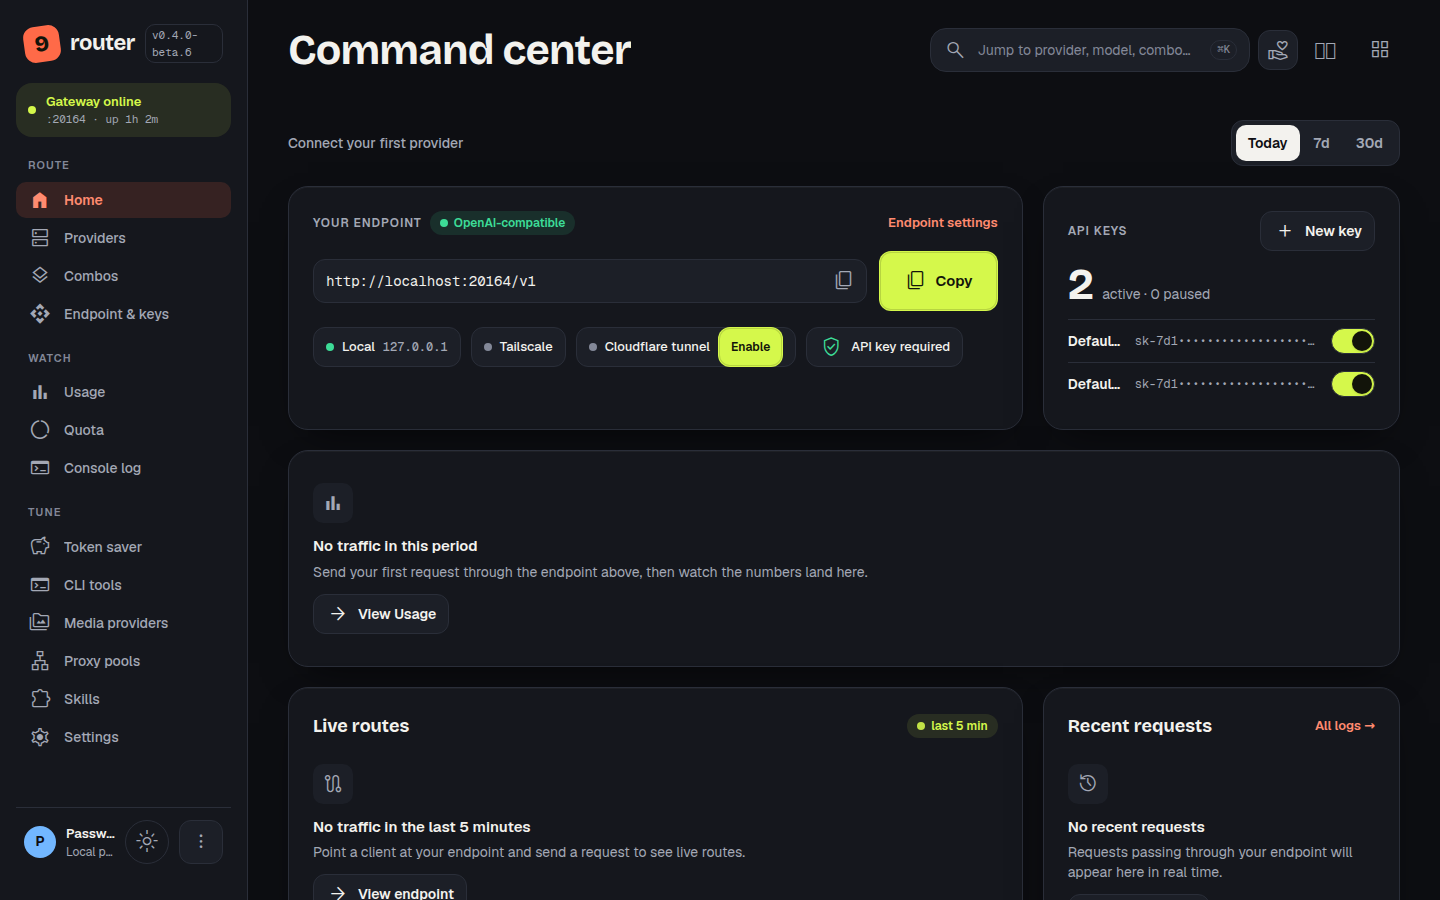
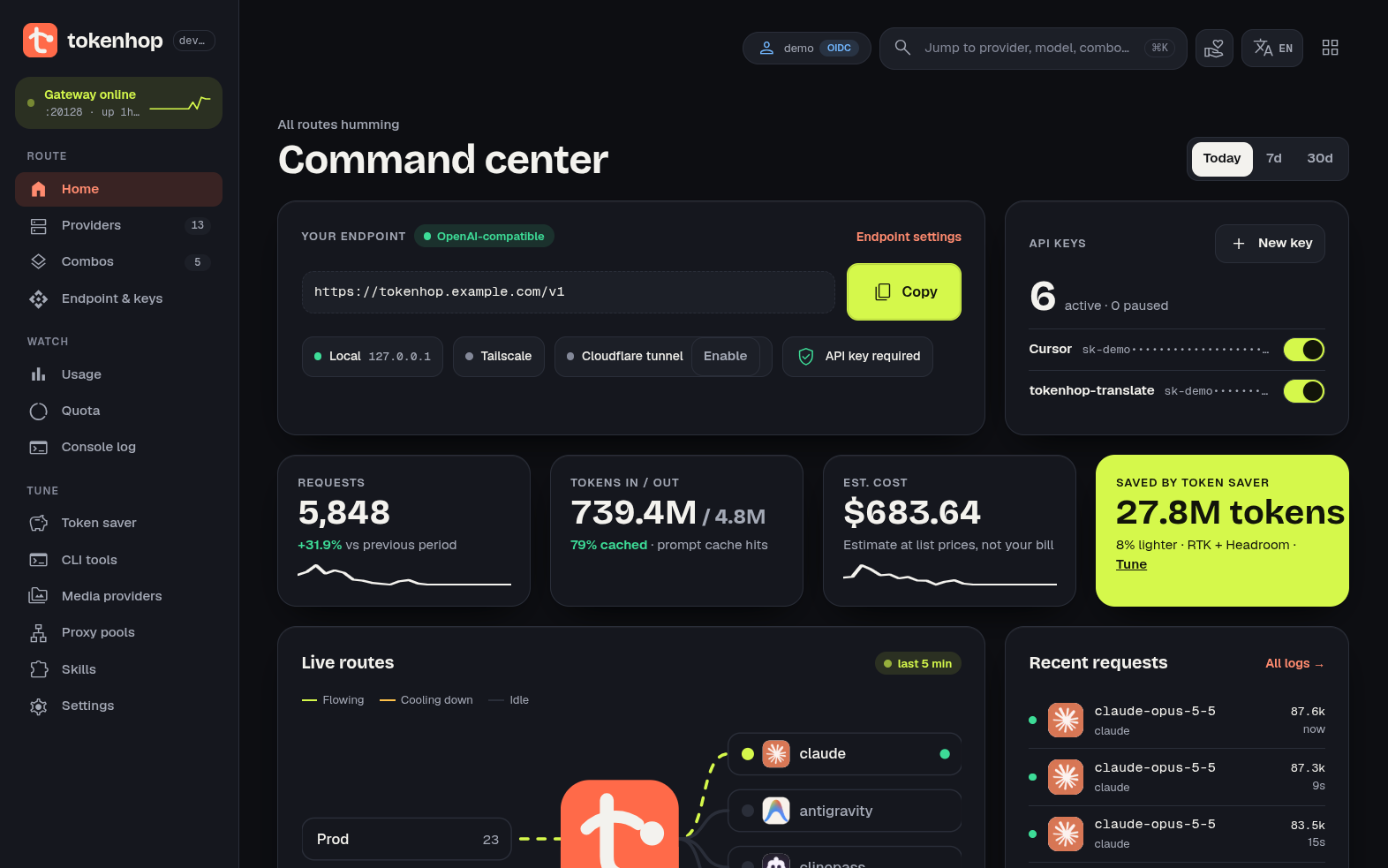
docs(readme): refresh dashboard screenshots with real data

diff --git a/README.md b/README.md
@@ -34,6 +34,12 @@ accounts are never included), Environment (read-only `.env` readout) and Danger 
 | ---------------------------------------------------------- | ------------------------------------------------------------ |
 | ![Dashboard, dark theme](images/signal-dashboard-dark.png) | ![Dashboard, light theme](images/signal-dashboard-light.png) |
 
+| Usage: requests, tokens, cache hits and cost over time | Combos: one model name routed across several providers |
+| ------------------------------------------------------ | ------------------------------------------------------ |
+| ![Usage analytics](images/dashboard-usage.png)         | ![Combo editor](images/dashboard-combos.png)           |
+| **Quota: runway left on every subscription account**   | **Providers: connected accounts and their health**     |
+| ![Quota tracking](images/dashboard-quota.png)          | ![Providers](images/dashboard-providers.png)           |
+
 ## What's different here
 
 - **Claude Code client fingerprint is configurable.** The identity sent on `claude`
